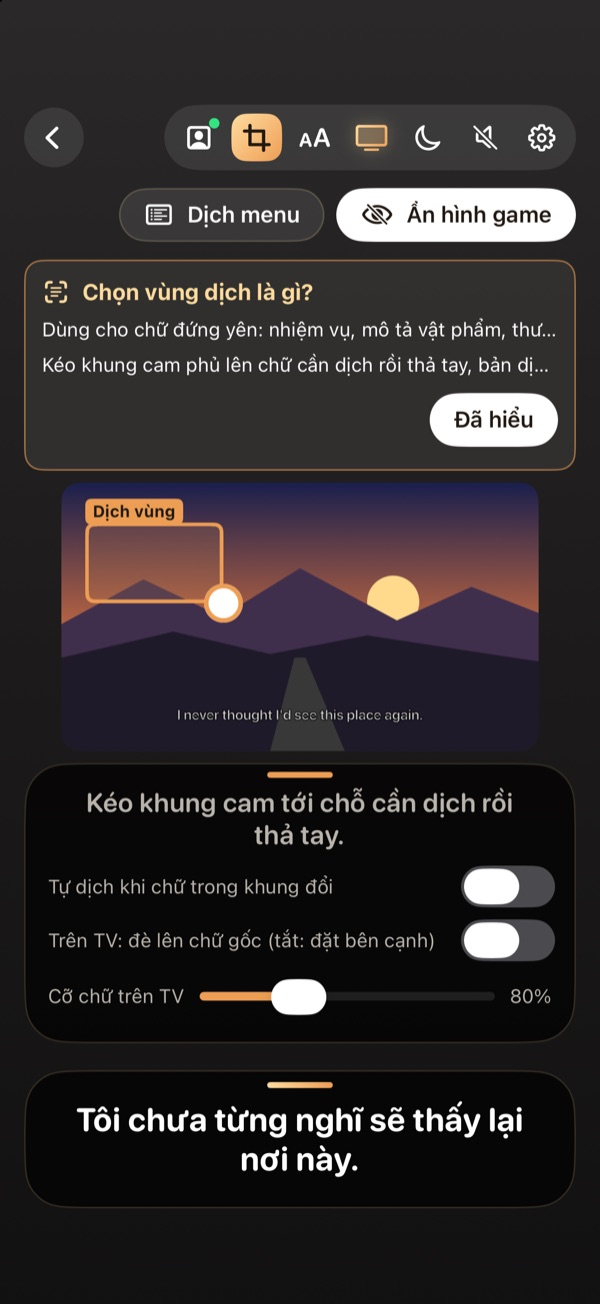
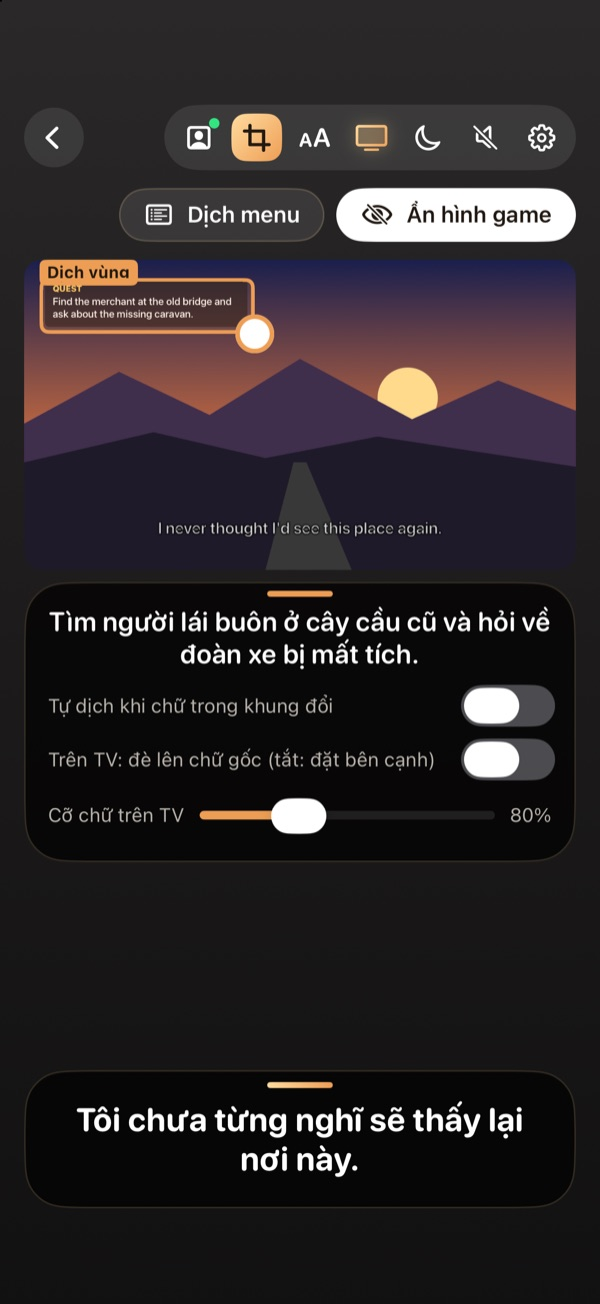
Guide: GIFs for dragging the dialogue box, area translation and menu translation; menu panel with real translations

diff --git a/guide.html b/guide.html
@@ -345,6 +345,9 @@
         .iphone-screen img { display: block; width: 100%; border-radius: 30px; border: 0; }
         figure.iphone figcaption { margin-top: 10px; }
         @media (max-width: 520px) { figure.iphone { width: calc(50% - 6px); } .iphone-screen { border-radius: 28px; padding: 6px; } .iphone-screen img { border-radius: 23px; } }
+        .gifs { display: flex; justify-content: center; }
+        figure.gif { margin: 14px auto 8px; max-width: 420px; text-align: center; }
+        figure.gif img { width: 100%; border-radius: 14px; border: 1px solid var(--border); box-shadow: 0 10px 24px -14px #0007; }
     </style>
 </head>
 <body>
@@ -485,9 +488,10 @@
             <li>Ở màn chính của app, bấm <span class="btn-app">Bắt đầu dịch game</span>, rồi chọn <span class="btn-app">Dịch khi chơi TV</span> (chơi trên TV) hoặc <span class="btn-app">Chơi trên điện thoại</span>. Nếu PS5 đang nghỉ, app tự bật máy, đợi khoảng 30 giây.</li>
             <li>Khi app kết nối, tay cầm tắt một lát là bình thường: bấm nút PS giữa tay cầm rồi chọn lại người chơi của bạn.</li>
             <li>Vào game, bật <strong>phụ đề tiếng Anh (English)</strong> trong phần cài đặt của game.</li>
-            <li>Trong app, bấm nút <span class="btn-app">khung cắt</span> và kéo khung <strong>Thoại</strong> (vàng nhạt) trùm lên chỗ phụ đề hiện trên màn hình.</li>
+            <li>Trong app, bấm nút <span class="btn-app">khung cắt</span> và kéo khung <strong>Thoại</strong> (vàng nhạt) trùm lên chỗ phụ đề hiện trên màn hình. Kéo <strong>chính khung đó</strong> (bấm vào giữa khung rồi kéo), không kéo cả màn hình. Kéo chấm tròn ở góc để khung ôm vừa dòng chữ.</li>
             <li>Chơi bình thường bằng tay cầm. Nhân vật nói gì, app dịch và đọc to bằng tiếng Việt.</li>
         </ol>
+        <figure class="gif"><img src="screenshots/app/gif-keo-khung-thoai.gif" alt="Bấm giữa khung Thoại, kéo xuống đúng dòng phụ đề, kéo chấm góc cho vừa chữ" loading="lazy"><figcaption>Bấm giữa khung Thoại, kéo xuống đúng dòng phụ đề, kéo chấm góc cho vừa chữ</figcaption></figure>
         <div class="phones">
             <figure class="phone"><img src="screenshots/app/d04-scan-area.jpg" alt="Chỉnh khung: kéo khung Thoại lên chỗ phụ đề, xem bản dịch thử" loading="lazy"><figcaption>Kéo khung Thoại lên chỗ phụ đề</figcaption></figure>
             <figure class="phone"><img src="screenshots/app/d07-live.jpg?v=2" alt="Màn dịch: bản dịch tiếng Việt hiện ở dưới" loading="lazy"><figcaption>Bản dịch hiện ngay khi nhân vật nói</figcaption></figure>
@@ -495,7 +499,7 @@
         <div class="box tip"><strong>Dịch menu (kỹ năng, túi đồ, hướng dẫn)</strong>Mở menu trong game rồi bấm <strong>Dịch menu</strong> trên màn dịch: app đọc cả màn hình, chỉ dịch các đoạn mô tả, bỏ qua tên mục và nút. Bấm lại để đóng. Giữ nút để bật <strong>Tự động</strong>: app tự dịch khi màn hình đứng yên khoảng 1 giây. Bản dịch tự ẩn khi thoát menu. Trên TV, bản dịch hiện ngay tại chữ gốc (đặt bên cạnh hoặc đè lên), cần app TV 0.2.4 (LG 1.2.3, Samsung 1.1.4).</div>
         <div class="box tip"><strong>Dịch nhiệm vụ, vật phẩm, lựa chọn (Chọn vùng dịch)</strong>
             Ở bản mới nhất, bấm <strong>Chọn vùng dịch</strong> trên màn hình dịch: hình game hiện ra cùng một khung màu cam. Kéo khung tới nhiệm vụ, mô tả vật phẩm, lá thư hay bảng lựa chọn rồi thả tay, app dịch ngay và hiện bản dịch bên dưới, mỗi lựa chọn một dòng. Bấm <strong>Ẩn hình game</strong> để đóng. Muốn app tự dịch khi chữ trong khung đổi thì bật <strong>Tự dịch khi chữ trong khung đổi</strong> trong nút <strong>khung cắt</strong>. Hai hộp phụ đề kéo lên xuống được, chạm 2 lần để đặt lại chỗ cũ.</div>
-        <figure class="phone"><img src="screenshots/app/d12-area-translate.jpg" alt="Chọn vùng dịch: kéo khung cam tới chỗ cần dịch" loading="lazy"><figcaption>Chọn vùng dịch: kéo khung cam rồi thả tay</figcaption></figure>
+        <figure class="gif"><img src="screenshots/app/gif-chon-vung-dich.gif" alt="Kéo khung cam tới chữ nhiệm vụ, thả tay là ra bản dịch" loading="lazy"><figcaption>Kéo khung cam tới chữ nhiệm vụ, thả tay là ra bản dịch</figcaption></figure>
         <div class="box tip"><strong>Nên thử</strong>
             Xem phim Vietsub hay chơi game đã Việt hóa? Chọn <strong>Thuyết minh</strong> ở màn chính (cạnh chữ Sẵn sàng): app đọc to phụ đề tiếng Việt có sẵn, không dịch. Bật <strong>Đọc theo cảm xúc</strong> trong Cài đặt → Giọng đọc để giọng đổi theo nhân vật giận, buồn hay sợ. Game hiện chữ từng chữ một thì bật <strong>Chữ hiện dần</strong> trong nút khung cắt. Thoại nhanh quá giọng đọc không kịp thì bật <strong>Tự đọc nhanh khi câu dồn lại</strong> trong Cài đặt → Giọng đọc. Muốn đỡ tốn pin, bấm nút <strong>mặt trăng</strong> để tắt màn hình, app vẫn đọc.</div>
         <div class="box warn"><strong>Dùng Dịch thuật Apple</strong>Cần cài app <strong>Dịch thuật</strong> (Translate) của Apple và tải sẵn gói Tiếng Anh, Tiếng Việt trong app đó.</div>
@@ -529,10 +533,10 @@
 <li><strong>Người chơi đã ghép nối</strong>: chọn người chơi dùng khi dịch và khi chơi trên điện thoại. Bấm Thêm để ghép người chơi khác.</li></ol>
 <div class="box tip"><strong>Tay cầm tắt một lát là bình thường</strong>Khi app kết nối, bấm nút PS giữa tay cầm rồi chọn lại người chơi của bạn.</div><div class="iphones"><figure class="iphone"><div class="iphone-screen"><img src="screenshots/app/d02-connect.jpg" alt="Màn Kết nối" loading="lazy"></div><figcaption>Màn Kết nối</figcaption></figure><figure class="iphone"><div class="iphone-screen"><img src="screenshots/app/d03-controller-notice.jpg" alt="Thông báo tay cầm" loading="lazy"></div><figcaption>Thông báo tay cầm</figcaption></figure></div></div></details>
         <details class="step" id="dung-khung"><summary><span class="num">3</span>Chỉnh khung đọc phụ đề</summary><div class="step-body"><p>Lần đầu vào dịch, app mở <strong>Chỉnh khung</strong> kèm hình game.</p><ol>
-<li>Kéo khung <strong>Thoại</strong> (vàng nhạt) trùm lên chỗ phụ đề tiếng Anh. Kéo chấm ở góc để đổi cỡ.</li>
+<li>Bấm vào <strong>giữa khung Thoại</strong> (vàng nhạt) rồi kéo nó tới dòng phụ đề tiếng Anh. Chỉ kéo khung, không kéo cả hình. Kéo chấm tròn ở góc để khung ôm vừa chữ.</li>
 <li>Ô bên dưới hiện chữ app đọc được và bản dịch thử. Đúng rồi thì bấm <strong>Xong, bắt đầu dịch</strong>.</li>
 <li><strong>Chữ hiện dần</strong>: bật khi game hiện phụ đề từng chữ một.</li></ol>
-<p>Mở lại bất cứ lúc nào bằng nút <strong>khung cắt</strong> màu vàng trên màn dịch.</p><div class="iphones"><figure class="iphone"><div class="iphone-screen"><img src="screenshots/app/d04-scan-area.jpg" alt="Kéo khung Thoại lên phụ đề" loading="lazy"></div><figcaption>Kéo khung Thoại lên phụ đề</figcaption></figure></div></div></details>
+<p>Mở lại bất cứ lúc nào bằng nút <strong>khung cắt</strong> màu vàng trên màn dịch.</p><figure class="gif"><img src="screenshots/app/gif-keo-khung-thoai.gif" alt="Bấm giữa khung Thoại, kéo xuống đúng dòng phụ đề, kéo chấm góc cho vừa chữ" loading="lazy"><figcaption>Bấm giữa khung Thoại, kéo xuống đúng dòng phụ đề, kéo chấm góc cho vừa chữ</figcaption></figure><div class="iphones"><figure class="iphone"><div class="iphone-screen"><img src="screenshots/app/d04-scan-area.jpg" alt="Kéo khung Thoại lên phụ đề" loading="lazy"></div><figcaption>Kéo khung Thoại lên phụ đề</figcaption></figure></div></div></details>
         <details class="step" id="dung-man-dich"><summary><span class="num">4</span>Màn dịch và thanh công cụ</summary><div class="step-body"><p>Bản dịch hiện ở hộp dưới cùng. Kéo hộp lên xuống để đổi chỗ, chạm 2 lần để đặt lại. Thanh trên cùng, từ trái sang:</p><ul>
 <li><strong>Hồ sơ</strong>: đổi game, phong cách dịch, xem lại hướng dẫn.</li>
 <li><strong>Khung cắt</strong>: chỉnh khung đọc phụ đề.</li>
@@ -545,7 +549,7 @@
 <li>Bấm <strong>Chọn vùng dịch</strong>, hình game hiện ra với khung cam.</li>
 <li>Kéo khung cam phủ lên chữ rồi thả tay, bản dịch hiện ngay.</li>
 <li>Bật <strong>Tự dịch khi chữ trong khung đổi</strong> nếu muốn app tự dịch lại.</li></ol>
-<p><strong>Dịch menu</strong>: mở menu trong game (kỹ năng, túi đồ, hướng dẫn) rồi bấm Dịch menu. App đọc cả màn hình và chỉ dịch đoạn chữ dài.</p><div class="iphones"><figure class="iphone"><div class="iphone-screen"><img src="screenshots/app/d12-area-translate.jpg" alt="Chọn vùng dịch" loading="lazy"></div><figcaption>Chọn vùng dịch</figcaption></figure><figure class="iphone"><div class="iphone-screen"><img src="screenshots/app/d13-menu-panel.jpg" alt="Bảng Dịch menu" loading="lazy"></div><figcaption>Bảng Dịch menu, nút Dịch lại</figcaption></figure></div></div></details>
+<div class="gifs"><figure class="gif"><img src="screenshots/app/gif-chon-vung-dich.gif" alt="Kéo khung cam tới chữ nhiệm vụ, thả tay là ra bản dịch" loading="lazy"><figcaption>Kéo khung cam tới chữ nhiệm vụ, thả tay là ra bản dịch</figcaption></figure></div><p><strong>Dịch menu</strong>: mở menu trong game (kỹ năng, túi đồ, hướng dẫn) rồi bấm Dịch menu. App đọc cả màn hình và chỉ dịch đoạn chữ dài.</p><div class="gifs"><figure class="gif"><img src="screenshots/app/gif-dich-menu.gif" alt="Mở menu trong game, bấm Dịch menu" loading="lazy"><figcaption>Mở menu trong game, bấm Dịch menu</figcaption></figure></div><div class="iphones"><figure class="iphone"><div class="iphone-screen"><img src="screenshots/app/d12-area-translate.jpg" alt="Chọn vùng dịch" loading="lazy"></div><figcaption>Chọn vùng dịch</figcaption></figure><figure class="iphone"><div class="iphone-screen"><img src="screenshots/app/d13-menu-panel.jpg" alt="Bảng Dịch menu" loading="lazy"></div><figcaption>Bảng Dịch menu, nút Dịch lại</figcaption></figure></div></div></details>
         <details class="step" id="dung-kieu"><summary><span class="num">6</span>Kiểu phụ đề (aA)</summary><div class="step-body"><ul><li><strong>Cỡ chữ</strong> phụ đề trên điện thoại.</li>
 <li><strong>Thời gian hiện</strong>: Theo phụ đề game (tắt khi game tắt phụ đề) hoặc Cố định.</li>
 <li><strong>Hiện câu thoại trước</strong>: câu vừa dịch hiện nhỏ phía trên.</li>
